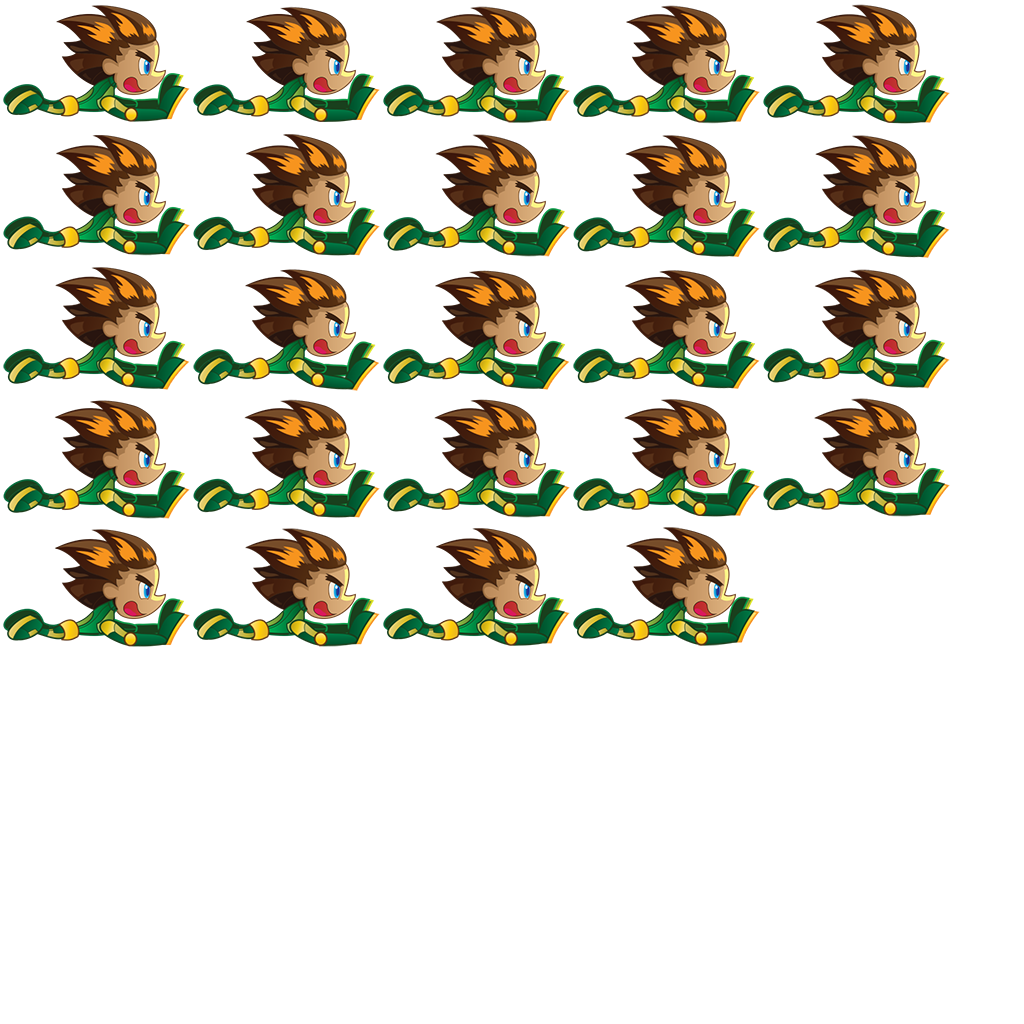
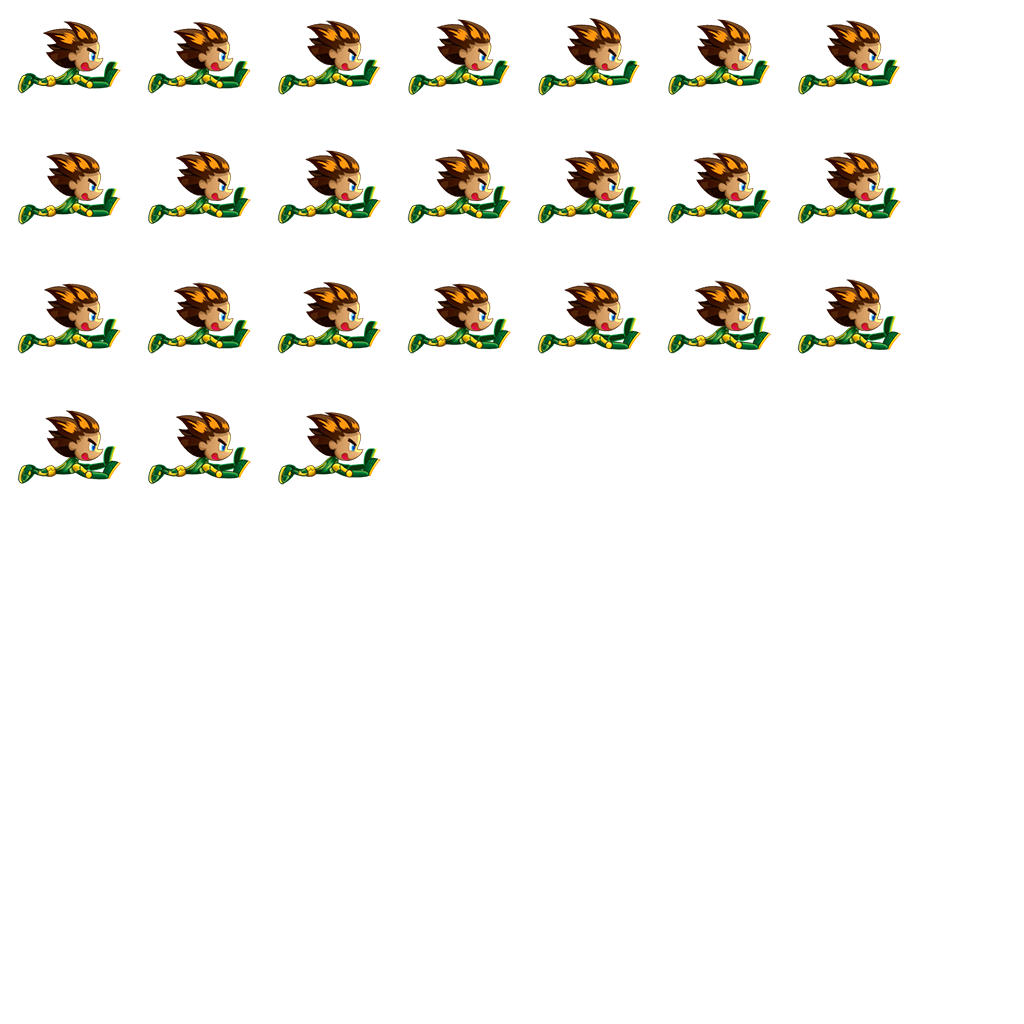
player spawn and fly effect

Changed region(s): [[0.0, 0.0, 0.9375, 0.6562]]

diff --git a/Src/Player.js b/Src/Player.js
@@ -10,20 +10,22 @@ var Player = cc.Sprite.extend({
     bullets: [],
     //isBlinking: false,
     blinkNumber: 0,
-    spriteFrameIndex: 1,
+    spriteFrameIndex: 0,
     fireWait: 0.75,
+    currentState: 0,
 
 	ctor: function() {
         this._super();
-
+        var spawnCache = cc.SpriteFrameCache.getInstance().addSpriteFrames(s_player_spawn_plist, s_player_spawn);
         var cache = cc.SpriteFrameCache.getInstance().addSpriteFrames(s_player_plist, s_player);
-        this.initWithSpriteFrameName("fly__001.png");
-        this.setScale(0.6);
+        this.initWithSpriteFrameName("player_spawn_0.png");
 		this.setTag(this.tag);
 	},
 	
 	update:function (dt) {
-        this.changeFrame();
+        if (this._parent._time % 0.1 < 0.05)
+            this.changeFrame();
+
         this.updatePosition(dt);
 
         if (this.fireWait > 0) {
@@ -58,17 +60,22 @@ var Player = cc.Sprite.extend({
     },
 
     changeFrame: function() {
-        var prefix = "fly__";
-        if (this.spriteFrameIndex > 24) {
-            this.spriteFrameIndex = 1;
+        if (this.currentState == 0) {
+            prefix = "player_spawn_";
+            var frame = cc.SpriteFrameCache.getInstance().getSpriteFrame(prefix + this.spriteFrameIndex + ".png");
+            if (this.spriteFrameIndex == 35) {
+                this.currentState = 1;
+                this.spriteFrameIndex = 0;
+            }
         }
-        if (this.spriteFrameIndex < 10) {
-            prefix += "00";
-        } else {
-            prefix += "0";
+        else if (this.currentState == 1) {
+            var prefix = "player_fly_";
+            if (this.spriteFrameIndex > 23) {
+                this.spriteFrameIndex = 0;
+            }
+            frame = cc.SpriteFrameCache.getInstance().getSpriteFrame(prefix + this.spriteFrameIndex + ".png");
         }
 
-        var frame = cc.SpriteFrameCache.getInstance().getSpriteFrame(prefix + this.spriteFrameIndex + ".png");
         this.setDisplayFrame(frame);
         this.spriteFrameIndex++;
     },

diff --git a/Src/resource.js b/Src/resource.js
@@ -7,6 +7,7 @@ var s_menu = dirArt + "menu.png";
 var s_menuTitle = dirArt + "menuTitle.png";
 var s_flare = dirArt + "flare.jpg";
 var s_player = dirArt + "player.png";
+var s_player_spawn = dirArt + "player_spawn.png";
 var s_enemy1 = dirArt + "enemy1.png";
 var s_enemy2 = dirArt + "enemy2.png";
 var s_player_bullet = dirArt + "bullet.png";
@@ -30,6 +31,7 @@ var s_mainMainMusic = dirSounds + "backgroundMusic.mp3";
 
 //plist
 var s_player_plist = dirArt + "player.plist";
+var s_player_spawn_plist = dirArt + "player_spawn.plist";
 
 //splash screen
 var s_backgeound = dirArt + "parallax/common/BG-common.png";
@@ -80,7 +82,9 @@ var g_mainmenu = [
 var g_ressources = [
     {src:s_backgeound},
     {src:s_player},
+    {src:s_player_spawn},
     {src:s_player_plist},
+    {src:s_player_spawn_plist},
 	{src:s_enemy1},
 	{src:s_enemy2},
 //    {src:s_playerShootEffect},

diff --git a/Src/GameLayer.js b/Src/GameLayer.js
@@ -130,7 +130,7 @@ var GameLayer = cc.Layer.extend({
             this._player = new Player();
             this._player.setPosition(0 - this._player.getContentSize().width / 2, winSize.height / 2);
             this.addChild(this._player, this._player.tag);
-            this._player.runAction(cc.MoveTo.create(1.5, cc.p(this._player.getContentSize().width / 2, winSize.height / 2)));
+            this._player.runAction(cc.Sequence.create(cc.MoveTo.create(1.5, cc.p(this._player.getContentSize().width / 2, winSize.height / 2))));
         },
 
         initHudLayer: function(scene){
